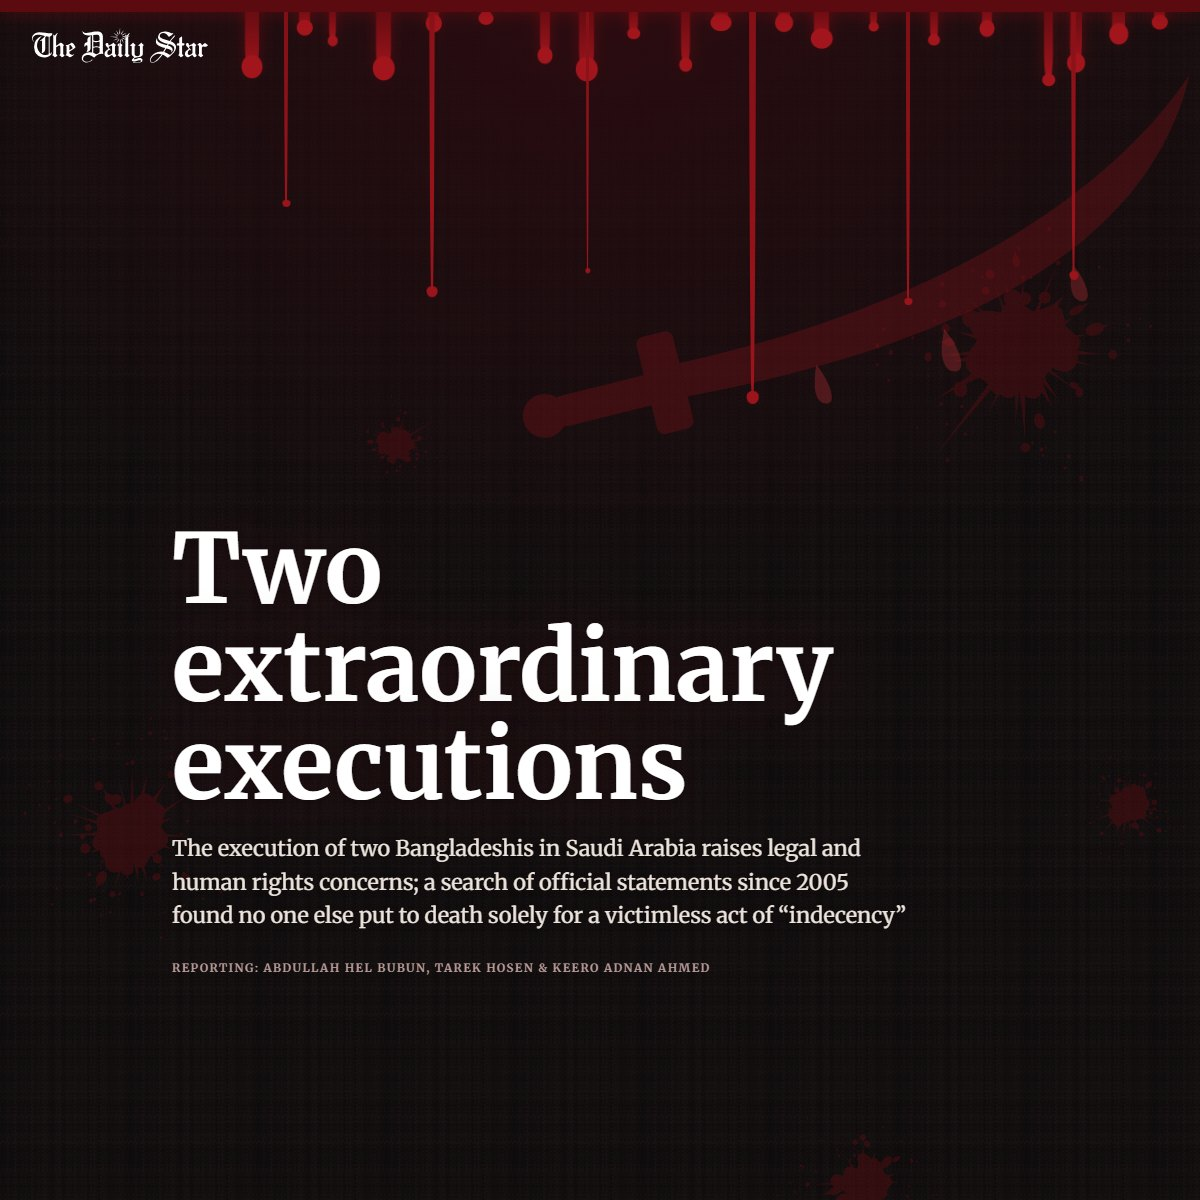
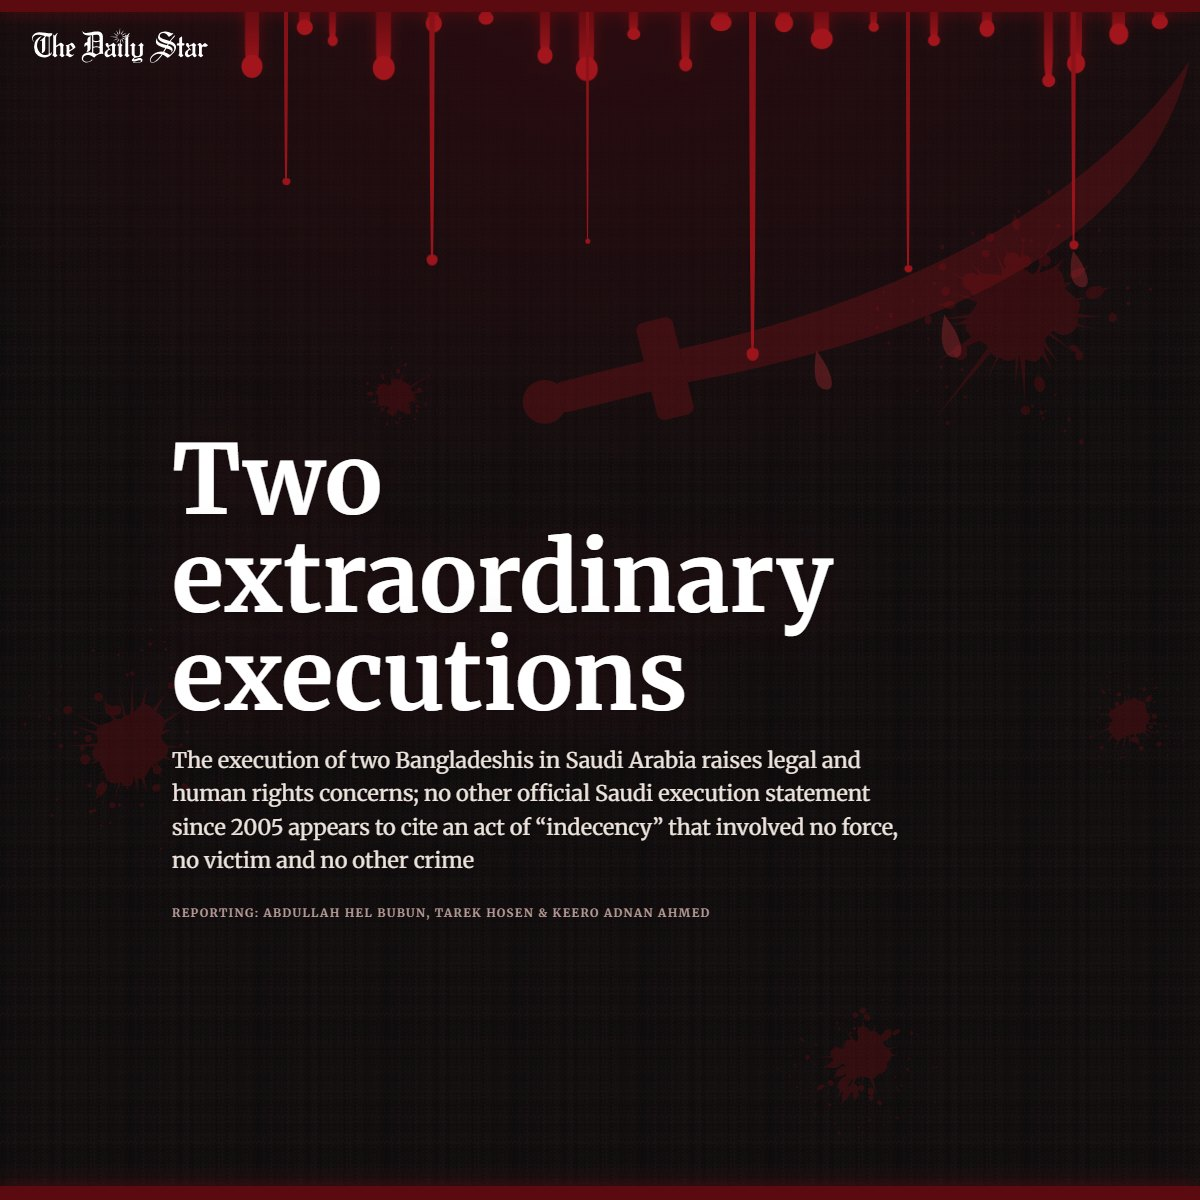
Dek cites only what the statements say; Development credit with a comma
- Dek (hero + JSON-LD): no other official Saudi execution statement since 2005 appears to cite
  an act of "indecency" that involved no force, no victim and no other crime. Drops "search",
  "victimless" and "solely", which made the claim depend on our method and our labels.
- Footer and llms.txt: "Development: Mir Rownak, Abdullah Hel Bubun".
- share_images.py sets the hero to one screen tall for the shot, so the four-line dek no
  longer pushes the byline off the 1200x630 card. Share images re-shot.

diff --git a/index.html b/index.html
@@ -52,7 +52,7 @@
 <meta name="twitter:description" content="A Daily Star analysis of 665 Saudi government execution statements between January 2024 and 20 October 2026 reveals that the execution of Nazrul and Sweety was extremely unusual.">
 <meta name="twitter:image" content="https://campaign.thedailystar.net/saudi-execution/img/share.jpg">
 <meta name="twitter:image:alt" content="The story’s opening screen: the headline Two extraordinary executions, the standfirst and the byline over blood drips, splatters and a sword">
-<script type="application/ld+json">{"@context": "https://schema.org", "@type": "NewsArticle", "mainEntityOfPage": {"@type": "WebPage", "@id": "https://campaign.thedailystar.net/saudi-execution/"}, "url": "https://campaign.thedailystar.net/saudi-execution/", "headline": "Two extraordinary executions", "alternativeHeadline": "The execution of two Bangladeshis in Saudi Arabia raises legal and human rights concerns; a search of official statements since 2005 found no one else put to death solely for a victimless act of “indecency”", "description": "A Daily Star analysis of 665 Saudi government execution statements between January 2024 and 20 October 2026 reveals that the execution of Nazrul and Sweety was extremely unusual.", "image": ["https://campaign.thedailystar.net/saudi-execution/img/share-16x9.jpg", "https://campaign.thedailystar.net/saudi-execution/img/share-4x3.jpg", "https://campaign.thedailystar.net/saudi-execution/img/share-1x1.jpg", "https://campaign.thedailystar.net/saudi-execution/img/share.jpg"], "thumbnailUrl": "https://campaign.thedailystar.net/saudi-execution/img/share.jpg", "datePublished": "2026-10-29T00:00:00+06:00", "dateModified": "2026-10-29T00:00:00+06:00", "inLanguage": "en", "isAccessibleForFree": true, "articleSection": "Investigation", "keywords": ["Saudi Arabia executions", "Saudi Arabia death penalty", "Bangladeshi executed in Saudi Arabia", "Nazrul Islam Abdul Basir", "Sweety Akhtar", "Nazrul and Sweety execution", "fahisha", "indecency execution Makkah", "ta'zir", "qisas", "hudud", "Saudi Interior Ministry", "Saudi war on drugs", "drug-related executions", "captagon", "foreign nationals executed in Saudi Arabia", "migrant workers Saudi Arabia", "Bangladeshi migrants", "Amnesty International", "Reprieve", "European Saudi Organization for Human Rights", "most serious crimes international law", "Islamic law death penalty", "Saudi executions 2025", "Saudi executions 2026", "The Daily Star investigation"], "author": [{"@type": "Person", "name": "Abdullah Hel Bubun"}, {"@type": "Person", "name": "Tarek Hosen"}, {"@type": "Person", "name": "Keero Adnan Ahmed"}], "contributor": [{"@type": "Person", "name": "Mir Rownak"}], "publisher": {"@type": "NewsMediaOrganization", "name": "The Daily Star", "url": "https://www.thedailystar.net/", "logo": {"@type": "ImageObject", "url": "https://campaign.thedailystar.net/saudi-execution/img/logo.png", "width": 600, "height": 60}, "sameAs": ["https://www.facebook.com/dailystarnews", "https://x.com/dailystarnews", "https://www.youtube.com/channel/UCKSJ5rTXq-pYgAmAOhVS_zQ", "https://www.instagram.com/dailystar_bd/", "https://www.linkedin.com/company/thedailystar/"]}, "contentLocation": {"@type": "Place", "name": "Makkah, Saudi Arabia"}, "wordCount": 2415, "copyrightYear": 2026, "copyrightHolder": {"@type": "NewsMediaOrganization", "name": "The Daily Star"}, "about": [{"@type": "Thing", "name": "Capital punishment in Saudi Arabia"}, {"@type": "Thing", "name": "Bangladeshi migrant workers"}], "mentions": [{"@type": "Person", "name": "Nazrul Islam Abdul Basir"}, {"@type": "Person", "name": "Sweety Akhtar"}, {"@type": "Organization", "name": "Amnesty International"}, {"@type": "Organization", "name": "Reprieve"}, {"@type": "Organization", "name": "European Saudi Organization for Human Rights"}, {"@type": "GovernmentOrganization", "name": "Ministry of Interior, Saudi Arabia"}]}</script>
+<script type="application/ld+json">{"@context": "https://schema.org", "@type": "NewsArticle", "mainEntityOfPage": {"@type": "WebPage", "@id": "https://campaign.thedailystar.net/saudi-execution/"}, "url": "https://campaign.thedailystar.net/saudi-execution/", "headline": "Two extraordinary executions", "alternativeHeadline": "The execution of two Bangladeshis in Saudi Arabia raises legal and human rights concerns; no other official Saudi execution statement since 2005 appears to cite an act of “indecency” that involved no force, no victim and no other crime", "description": "A Daily Star analysis of 665 Saudi government execution statements between January 2024 and 20 October 2026 reveals that the execution of Nazrul and Sweety was extremely unusual.", "image": ["https://campaign.thedailystar.net/saudi-execution/img/share-16x9.jpg", "https://campaign.thedailystar.net/saudi-execution/img/share-4x3.jpg", "https://campaign.thedailystar.net/saudi-execution/img/share-1x1.jpg", "https://campaign.thedailystar.net/saudi-execution/img/share.jpg"], "thumbnailUrl": "https://campaign.thedailystar.net/saudi-execution/img/share.jpg", "datePublished": "2026-10-29T00:00:00+06:00", "dateModified": "2026-10-29T00:00:00+06:00", "inLanguage": "en", "isAccessibleForFree": true, "articleSection": "Investigation", "keywords": ["Saudi Arabia executions", "Saudi Arabia death penalty", "Bangladeshi executed in Saudi Arabia", "Nazrul Islam Abdul Basir", "Sweety Akhtar", "Nazrul and Sweety execution", "fahisha", "indecency execution Makkah", "ta'zir", "qisas", "hudud", "Saudi Interior Ministry", "Saudi war on drugs", "drug-related executions", "captagon", "foreign nationals executed in Saudi Arabia", "migrant workers Saudi Arabia", "Bangladeshi migrants", "Amnesty International", "Reprieve", "European Saudi Organization for Human Rights", "most serious crimes international law", "Islamic law death penalty", "Saudi executions 2025", "Saudi executions 2026", "The Daily Star investigation"], "author": [{"@type": "Person", "name": "Abdullah Hel Bubun"}, {"@type": "Person", "name": "Tarek Hosen"}, {"@type": "Person", "name": "Keero Adnan Ahmed"}], "contributor": [{"@type": "Person", "name": "Mir Rownak"}], "publisher": {"@type": "NewsMediaOrganization", "name": "The Daily Star", "url": "https://www.thedailystar.net/", "logo": {"@type": "ImageObject", "url": "https://campaign.thedailystar.net/saudi-execution/img/logo.png", "width": 600, "height": 60}, "sameAs": ["https://www.facebook.com/dailystarnews", "https://x.com/dailystarnews", "https://www.youtube.com/channel/UCKSJ5rTXq-pYgAmAOhVS_zQ", "https://www.instagram.com/dailystar_bd/", "https://www.linkedin.com/company/thedailystar/"]}, "contentLocation": {"@type": "Place", "name": "Makkah, Saudi Arabia"}, "wordCount": 2415, "copyrightYear": 2026, "copyrightHolder": {"@type": "NewsMediaOrganization", "name": "The Daily Star"}, "about": [{"@type": "Thing", "name": "Capital punishment in Saudi Arabia"}, {"@type": "Thing", "name": "Bangladeshi migrant workers"}], "mentions": [{"@type": "Person", "name": "Nazrul Islam Abdul Basir"}, {"@type": "Person", "name": "Sweety Akhtar"}, {"@type": "Organization", "name": "Amnesty International"}, {"@type": "Organization", "name": "Reprieve"}, {"@type": "Organization", "name": "European Saudi Organization for Human Rights"}, {"@type": "GovernmentOrganization", "name": "Ministry of Interior, Saudi Arabia"}]}</script>
 <link rel="icon" href="img/favicon.ico" sizes="16x16">
 <link rel="sitemap" type="application/xml" title="Sitemap" href="sitemap.xml">
 <link rel="preload" href="fonts/merriweather-700.woff2" as="font" type="font/woff2" crossorigin>
@@ -390,7 +390,7 @@ dialog.prm::backdrop{background:rgba(0,0,0,.8)}
 <header class="hero" id="top">
 <div class="hero__art" aria-hidden="true"><div class="hero__glow"></div><svg class="spl" style="left:85%;top:26%;--s:300px;--r:0deg"><use href="#spl3"/></svg><svg class="spl" style="left:11%;top:62%;--s:240px;--r:70deg"><use href="#spl"/></svg><svg class="spl" style="left:72%;top:88%;--s:190px;--r:140deg"><use href="#spl2"/></svg><svg class="spl" style="left:33%;top:33%;--s:100px;--r:200deg"><use href="#spl3"/></svg><svg class="spl" style="left:94%;top:60%;--s:130px;--r:260deg"><use href="#spl"/></svg><svg class="sword" viewBox="0 0 500 220" aria-hidden="true"><path d="M130 118C250 122 400 100 492 18C446 108 330 152 130 140Z"/><rect x="106" y="96" width="24" height="64" rx="5"/><path d="M108 120H52a8 8 0 0 0 0 20h56z"/><circle cx="38" cy="130" r="14"/><path class="dr" d="M300 138c-7 14-8 26 0 28s7-14 0-28zM390 118c-6 12-7 22 0 24s6-12 0-24zM215 140c-6 14-7 24 0 26s6-12 0-26z"/></svg><div class="drips"><i style="left:1.8%;height:67px;width:14px;animation-duration:9.3s;animation-delay:-4.1s"></i><i style="left:7.3%;height:32px;width:11px;animation-duration:10.4s;animation-delay:-6.3s"></i><i style="left:10.4%;height:38px;width:7px;animation-duration:11.7s;animation-delay:-5.5s"></i><i style="left:15.2%;height:69px;width:15px;animation-duration:10.6s;animation-delay:-4.9s"></i><i style="left:20.6%;height:25px;width:11px;animation-duration:6.4s;animation-delay:-1.5s"></i><i style="left:26.0%;height:25px;width:10px;animation-duration:9.1s;animation-delay:-6.7s"></i><i style="left:32.1%;height:53px;width:10px;animation-duration:10.6s;animation-delay:-3.7s"></i><i style="left:36.1%;height:70px;width:15px;animation-duration:11.9s;animation-delay:-5.7s"></i><i style="left:41.3%;height:41px;width:9px;animation-duration:6.5s;animation-delay:-6.1s"></i><i style="left:46.6%;height:63px;width:9px;animation-duration:12.7s;animation-delay:-6.8s"></i><i style="left:50.0%;height:34px;width:14px;animation-duration:9.3s;animation-delay:-7.8s"></i><i style="left:56.6%;height:27px;width:12px;animation-duration:11.4s;animation-delay:-2.2s"></i><i style="left:60.3%;height:49px;width:15px;animation-duration:11.3s;animation-delay:-0.9s"></i><i style="left:66.0%;height:29px;width:7px;animation-duration:11.6s;animation-delay:-1.4s"></i><i style="left:72.2%;height:45px;width:8px;animation-duration:11.1s;animation-delay:-1.0s"></i><i style="left:77.6%;height:29px;width:10px;animation-duration:7.5s;animation-delay:-2.2s"></i><i style="left:83.9%;height:85px;width:9px;animation-duration:12.2s;animation-delay:-1.7s"></i><i style="left:86.6%;height:63px;width:12px;animation-duration:6.7s;animation-delay:-7.9s"></i><i style="left:90.9%;height:36px;width:13px;animation-duration:8.3s;animation-delay:-2.4s"></i><i style="left:95.3%;height:28px;width:11px;animation-duration:7.7s;animation-delay:-4.8s"></i><span class="run w" style="left:6%;--w:4px;--len:44%;--from:0.35"><i></i></span><span class="run" style="left:21%;--w:6px;--len:100%;--from:0.22"><i></i></span><span class="run w" style="left:37%;--w:3px;--len:68%;--from:0.3"><i></i></span><span class="run" style="left:54%;--w:7px;--len:100%;--from:0.3"><i></i></span><span class="run w" style="left:70%;--w:4px;--len:57%;--from:0.4"><i></i></span><span class="run" style="left:87%;--w:5px;--len:83%;--from:0.25"><i></i></span></div><div class="band"></div><div class="pool"></div></div>
 <div class="masthead"><a href="https://www.thedailystar.net" target="_blank" rel="noopener" aria-label="The Daily Star home (opens in a new tab)"><svg class="tds-logo" viewBox="0 0 321.41 63.84" aria-hidden="true"><use href="#tds-logo"/></svg></a></div>
-<div class="hero__body"><h1 tabindex="-1">Two extraordinary executions</h1><p class="dek">The execution of two Bangladeshis in Saudi Arabia raises legal and human rights concerns; a search of official statements since 2005 found no one else put to death solely for a victimless act of “indecency”</p><p class="by">Reporting: Abdullah Hel Bubun, Tarek Hosen &amp; Keero Adnan Ahmed</p></div>
+<div class="hero__body"><h1 tabindex="-1">Two extraordinary executions</h1><p class="dek">The execution of two Bangladeshis in Saudi Arabia raises legal and human rights concerns; no other official Saudi execution statement since 2005 appears to cite an act of “indecency” that involved no force, no victim and no other crime</p><p class="by">Reporting: Abdullah Hel Bubun, Tarek Hosen &amp; Keero Adnan Ahmed</p></div>
 </header>
 <main id="story">
 <div class="txt"><p>Nazrul Islam Abdul Basir and Sweety Akhtar left Bangladesh for Saudi Arabia in 2022, hoping for a better life. Both used to work as cleaners for a Saudi company called AL-Majal to support their families back home.</p>
@@ -503,7 +503,7 @@ dialog.prm::backdrop{background:rgba(0,0,0,.8)}
 <div class="site-footer__credits">
 <p><span>Data Collection &amp; Processing:</span> Mir Rownak</p>
 <p><span>Planning &amp; Design:</span> Abdullah Hel Bubun</p>
-<p><span>Development:</span> Mir Rownak and Abdullah Hel Bubun</p>
+<p><span>Development:</span> Mir Rownak, Abdullah Hel Bubun</p>
 <p class="site-footer__copy">&copy; 2026 The Daily Star. All rights reserved.</p>
 </div>
 </div>

diff --git a/tools/share_images.py b/tools/share_images.py
@@ -33,6 +33,8 @@ async def main():
         for name, (w, h) in SIZES.items():
             pg = await b.new_page(viewport={'width': w, 'height': h}, device_scale_factor=1)
             await pg.goto(url, wait_until='networkidle')
+            # the hero is 112% of the screen with its text centred, so a short card would cut off the byline
+            await pg.add_style_tag(content='.hero{min-height:100vh!important}')
             await pg.evaluate('document.fonts.ready')
             await pg.wait_for_timeout(800)
             out = os.path.join(ROOT, 'img', name)

diff --git a/HANDOVER.md b/HANDOVER.md
@@ -2,11 +2,15 @@
 
 ## What changed and why
 - **Dek and credit (Mir, 2026-10-29):** dek (hero + JSON-LD alternativeHeadline) now "The execution of two
-  Bangladeshis in Saudi Arabia raises legal and human rights concerns; a search of official statements since 2005
-  found no one else put to death solely for a victimless act of “indecency”". The old one ("no Saudi or foreign
-  nationals faced execution for … ‘indecency’ in the last 3 years") was wrong on its face: Nazrul and Sweety are
-  foreign nationals, and 13 others were executed for rape or sexual assault. Footer credit "Data Collection &
-  Processing: Mir Rownak" (llms.txt, README match). Share images re-shot (dek is in the hero).
+  Bangladeshis in Saudi Arabia raises legal and human rights concerns; no other official Saudi execution statement
+  since 2005 appears to cite an act of “indecency” that involved no force, no victim and no other crime". It claims
+  only what the statements say (not "no one else was executed"), hedged, in the story's own three conditions; an
+  interim "a search … found no one … victimless" version was dropped (Mir: no "search"; "victimless" and "solely"
+  were our labels). The old dek ("no Saudi or foreign nationals faced execution for … ‘indecency’ in the last 3
+  years") was wrong on its face: Nazrul and Sweety are foreign nationals, and 13 others were executed for rape or
+  sexual assault. Footer credits "Data Collection & Processing: Mir Rownak" and "Development: Mir Rownak, Abdullah
+  Hel Bubun" (llms.txt matches). Share images re-shot; `tools/share_images.py` now sets the hero to one screen tall
+  for the shot, since the four-line dek pushed the byline off the 1200x630 card.
 - **SPA archive line (Mir, 2026-10-29):** one paragraph right after scene 1, before Duaa Dhainy: the three-year
   analysis vs a separate keyword search of SPA statements back to 2005, which found no other execution for fahisha
   with no force, victim or other crime. It replaced two longer paragraphs (after the 2015 Kaabah case) that also
